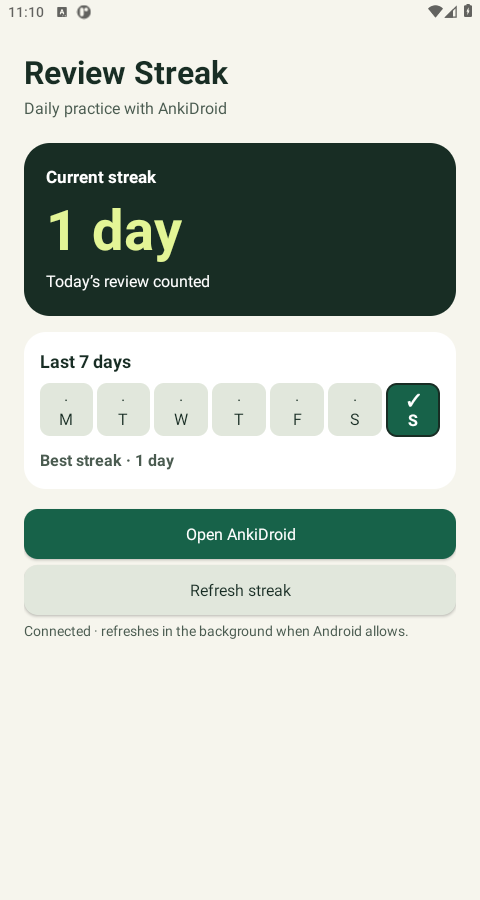
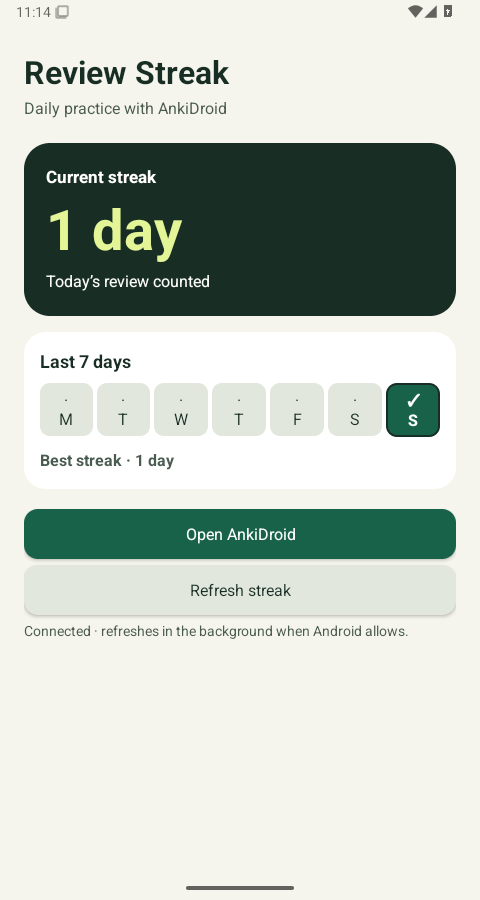
Document Android 15 review and release verification

diff --git a/docs/testing.md b/docs/testing.md
@@ -1,6 +1,6 @@
 # Version 1.0.0 verification
 
-Tests ran on November 22, 2026. The test collection contained two German vocabulary cards created in the official, unmodified AnkiDroid 2.25.3 release. The companion used the same application ID and signing key as the published APK.
+Tests ran on November 22, 2026. The test vocabulary cards were created in the official, unmodified AnkiDroid 2.25.3 release. The companion used the same application ID and signing key as the published APK.
 
 ## Android 11 (API 30) virtual phone
 
@@ -8,16 +8,16 @@ Tests ran on November 22, 2026. The test collection contained two German vocabul
 | --- | --- |
 | Connect through the Android permission prompt | The dashboard showed that AnkiDroid was connected and started at **0 days**. |
 | Reveal a card without grading it | A forced background check saved no date. |
-| Grade **der Apfel** in AnkiDroid | A forced background check saved the date while the companion was closed. The dashboard showed **1 day** and **Today’s review counted**. |
+| Grade **der Apfel** in AnkiDroid | A forced background check saved the date while AnkiDroid was in the foreground. The dashboard showed **1 day** and **Today’s review counted**. |
 | Grade **das Brot** on the same day | Only one date was saved. The current and best streaks both stayed at **1 day**. |
 | Force-stop and reopen the companion | The saved day and streak persisted. |
 | Advance the virtual phone clock by one day | The current streak stayed at **1 day** and the dashboard prompted for today’s review. |
 | Advance the virtual phone clock by a second day | The current streak reset to **0 days** and the best streak stayed at **1 day**. The clock was restored after the test. |
-| Install the final signed build over the test build | The saved day and connection remained available. The README screenshot is from the final build. |
+| Install the final signed build over the test build | The saved day and connection remained available. |
 
 ## Android 15 (API 35) virtual phone
 
-The final signed APK installed and opened with the dashboard clear of the system bars. With AnkiDroid disabled on this virtual phone, it showed **Get AnkiDroid** and explained how to connect.
+The final signed APK installed and opened with the dashboard clear of the system bars. With AnkiDroid disabled on this virtual phone, it showed **Get AnkiDroid** and explained how to connect. After enabling and setting up AnkiDroid, granting the companion access, and grading **die Zeit**, reopening Review Streak showed **1 day** and **Today’s review counted**. The README screenshot captures this result.
 
 ## Local checks
 

diff --git a/README.md b/README.md
@@ -14,7 +14,7 @@ Review Streak is an Android companion for AnkiDroid. Answer a flashcard in AnkiD
 - A day counts once after AnkiDroid records an answer, even if you stop before finishing the deck. Opening a deck or revealing an answer alone earns no credit. Answers across all decks count.
 - Days follow the phone’s local calendar. A streak through yesterday stays active throughout today. If you skip today, it resets tomorrow.
 - The public AnkiDroid API exposes only the latest timestamp for each card. Review Streak checks cards rated in the last 31 Anki scheduling days and saves the calendar dates it discovers. If you check after the same card was reviewed on several days, earlier dates may be missing from the initial or recovered history. The best streak is based on recorded dates. Synced reviews can also count if AnkiDroid exposes their timestamps.
-- Review Streak requests AnkiDroid’s shared database permission and only queries the last-review timestamp field. It saves dates on your device and has no Internet permission. Clearing its app data or uninstalling it clears the dates it has saved.
+- The Android permission dialog describes AnkiDroid’s shared read/write permission. Review Streak uses it to query only the last-review timestamp field. It saves dates on your device and has no Internet permission. Clearing its app data or uninstalling it clears the dates it has saved.
 
 ## Build
 
